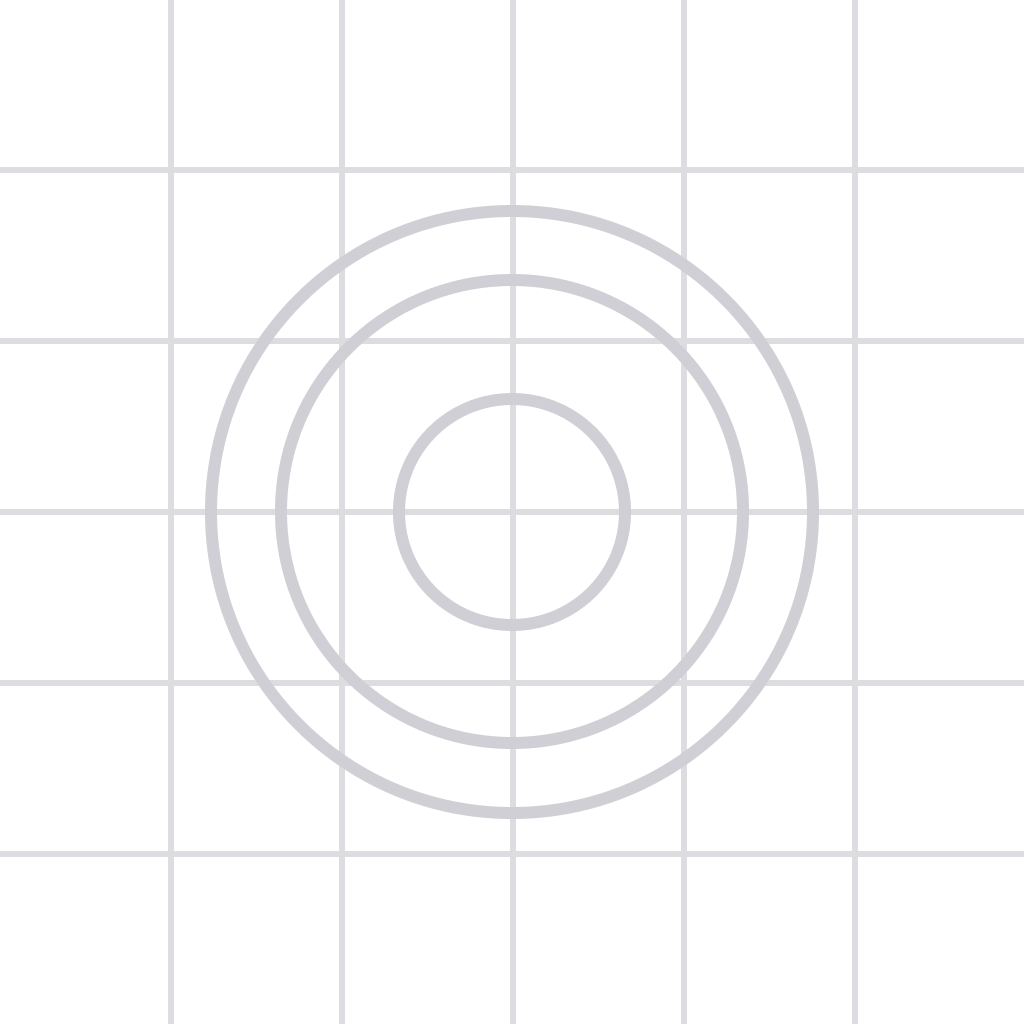
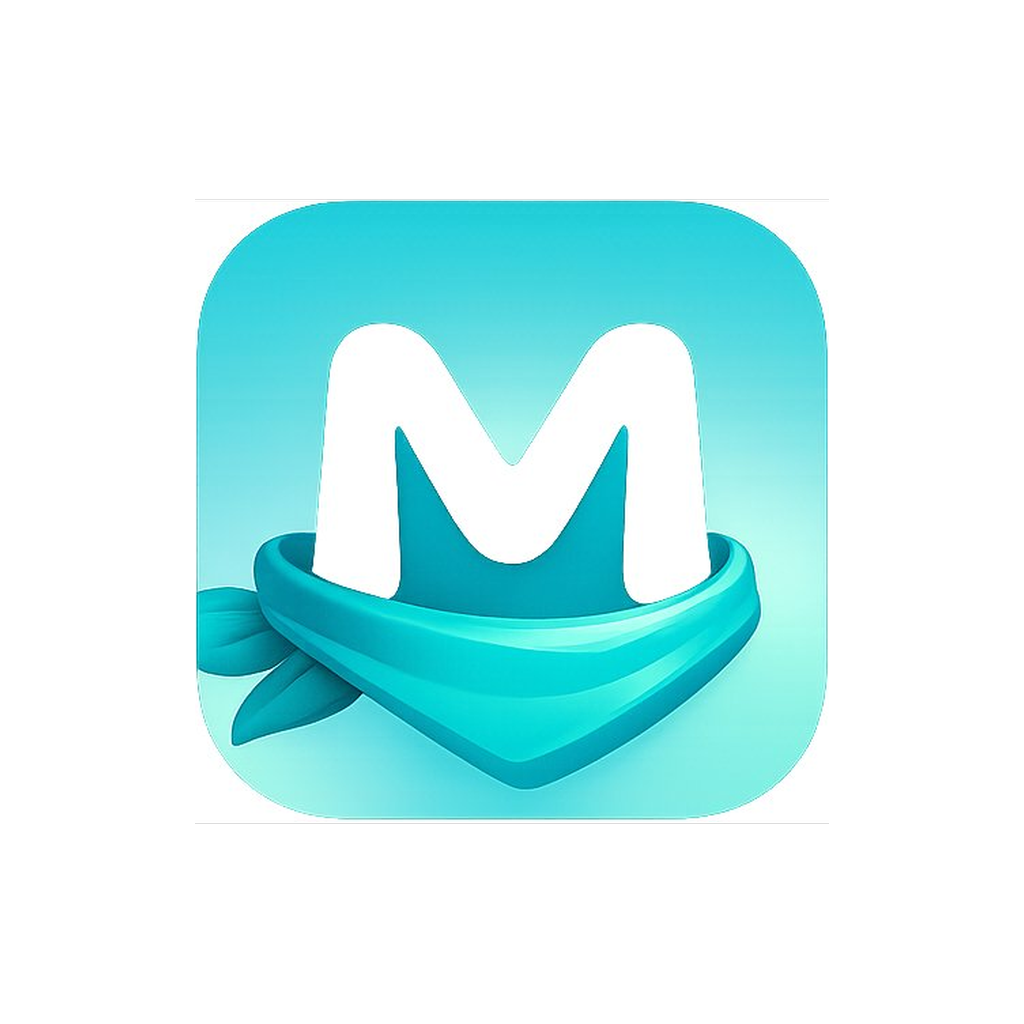
Correction icone adaptative M et pingouin Kroki dans tuile et chat

diff --git a/screens/CoachScreen.js b/screens/CoachScreen.js
@@ -60,7 +60,7 @@ export default function CoachScreen() {
               message.role === 'user' ? styles.bulleUser : styles.bulleKroki,
             ]}>
             {message.role === 'assistant' && (
-              <Image source={require('../assets/kroki-icone.png')} style={styles.bulleAvatar} />
+              <Image source={require('../assets/kroki.png')} style={styles.bulleAvatar} />
             )}
             <Text style={message.role === 'user' ? styles.texteUser : styles.texteKroki}>
               {message.content}
@@ -70,7 +70,7 @@ export default function CoachScreen() {
 
         {chargement && (
           <View style={[styles.bulle, styles.bulleKroki]}>
-            <Image source={require('../assets/kroki-icone.png')} style={styles.bulleAvatar} />
+            <Image source={require('../assets/kroki.png')} style={styles.bulleAvatar} />
             <ActivityIndicator color="#2D7D46" />
           </View>
         )}

diff --git a/app.config.js b/app.config.js
@@ -12,7 +12,7 @@ export default {
     },
     android: {
       adaptiveIcon: {
-        foregroundImage: "./assets/icon.png",
+        foregroundImage: "./assets/adaptive-icon.png",
         backgroundColor: "#7DDDD8"
       },
       edgeToEdgeEnabled: true,

diff --git a/screens/HomeScreen.js b/screens/HomeScreen.js
@@ -141,7 +141,7 @@ export default function HomeScreen({ navigation }) {
             onPress={() => navigation.navigate(tuile.ecran)}>
             <View style={styles.tuileIcone}>
               {tuile.image ? (
-                <Image source={require('../assets/kroki-icone.png')} style={styles.tuileImage} />
+                <Image source={require('../assets/kroki.png')} style={styles.tuileImage} />
               ) : (
                 <Text style={styles.tuileEmoji}>{tuile.emoji}</Text>
               )}